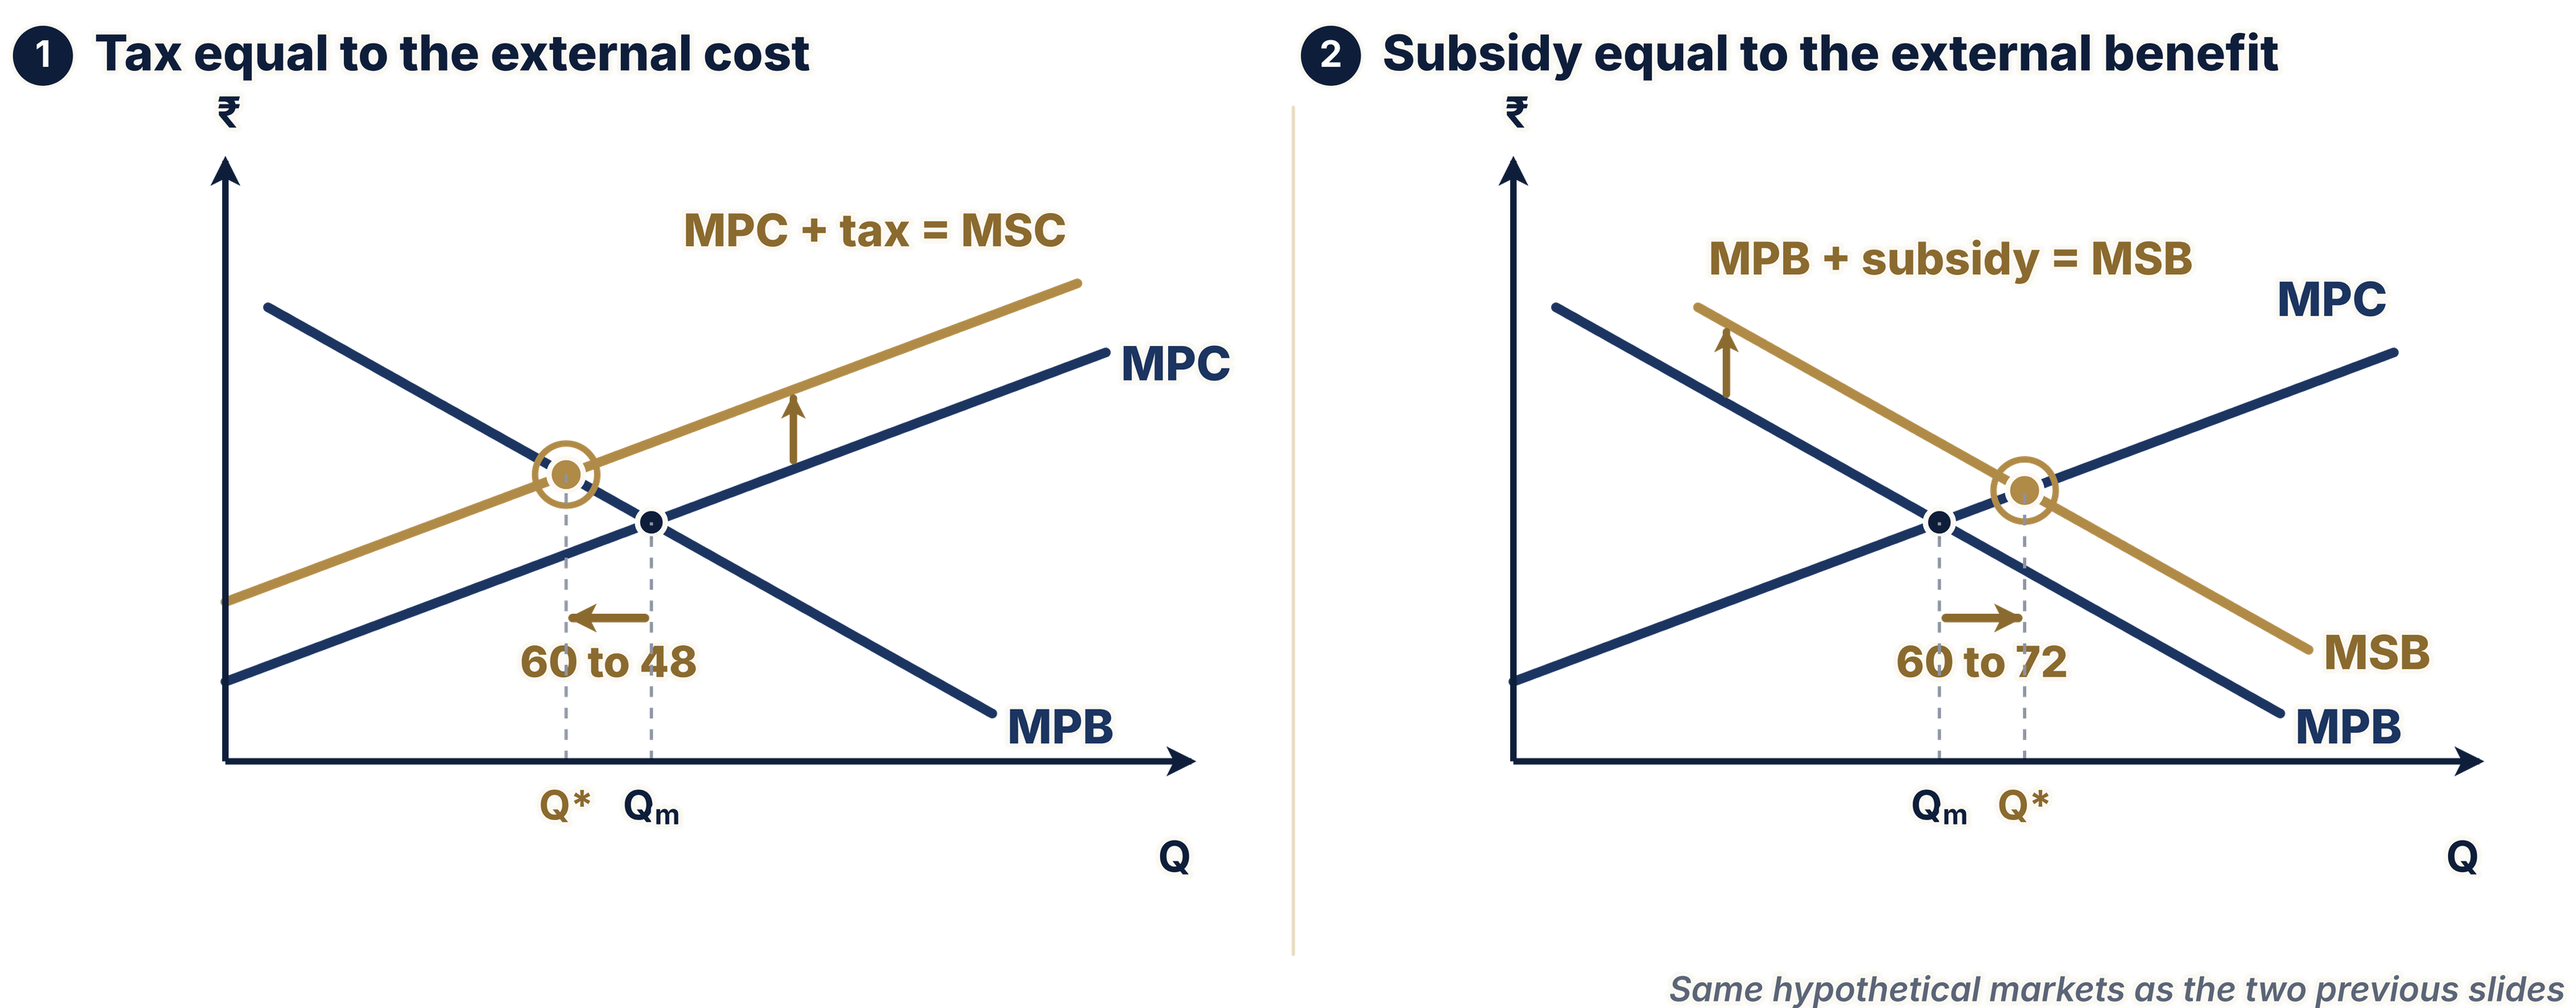
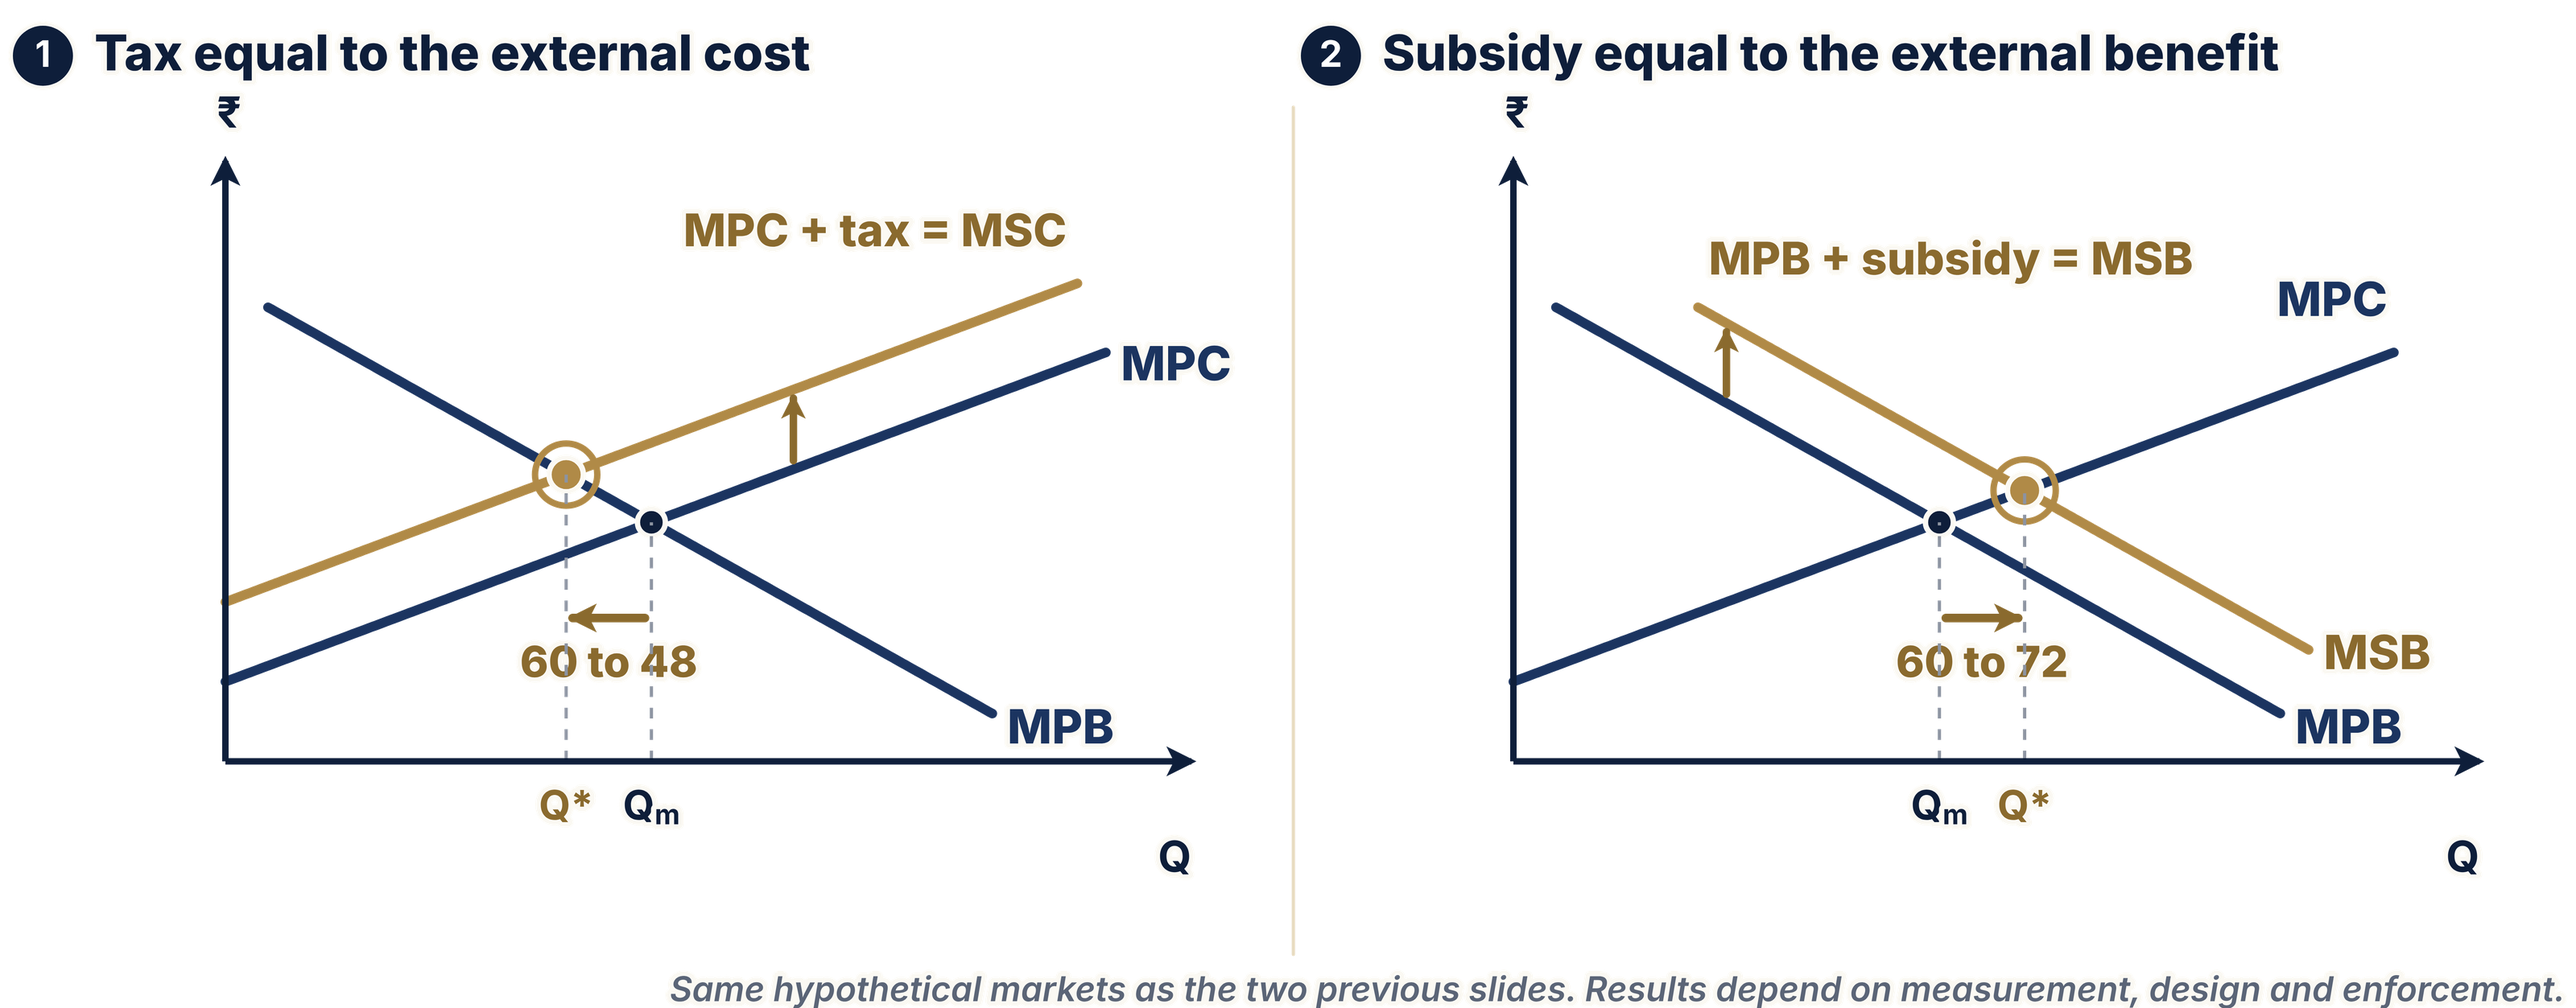
Section II: correction graph caveat
Claude-Session: https://claude.ai/code/session_01RLiD2gmov7MXXhnmF6Br24

Changed region(s): [[0.25, 0.9649, 1.0, 1.0]]

diff --git a/presentation-assets/upsc-economics-elasticity-intervention-market-failure/source/s2_slides.py b/presentation-assets/upsc-economics-elasticity-intervention-market-failure/source/s2_slides.py
@@ -92,7 +92,7 @@ S.append(card(head(E1, "How to Interpret PED: Five Standard Categories")
 S.append(card(head(E1, "Why Does PED Differ Across Goods?") + img("S07_PED_Determinants_v2", "Five determinants of PED", 372)))
 
 # 8 PED and spending
-S.append(card(head(E1, "PED and Total Expenditure") + img("G08_PED_Expenditure_v2", "Price cuts with elastic and inelastic demand", 330)
+S.append(card(head(E1, "PED and Total Expenditure") + img("G08_PED_Expenditure_v2", "Price cuts with elastic and inelastic demand", 314)
               + '<p><b>Unit elastic:</b> spending stays the same. Elastic: price and spending move in opposite directions; inelastic: in the same direction. Sellers and governments need to know which case they face.</p>'))
 
 # 9 YED calculation
@@ -228,7 +228,7 @@ S.append(card(head(E2, "When Government Intervention Can Fail") + img("S30_Gover
               + '<p>Government action can improve an outcome, but it can also create new costs or miss the underlying problem.</p>'))
 
 # 31 Mains framework
-S.append(card(head(E2, "A Framework for Evaluating Intervention in GS Mains") + img("S31_Mains_Framework_v2", "Six-step policy evaluation framework", 330)
+S.append(card(head(E2, "A Framework for Evaluating Intervention in GS Mains") + img("S31_Mains_Framework_v2", "Six-step policy evaluation framework", 316)
               + '<p>Use the six steps as the skeleton of an answer: each step is one short paragraph, ending with a qualified judgement.</p>'))
 
 # 32 Opener III
@@ -265,10 +265,10 @@ S.append(card(head(E3, "Positive Externalities: Benefits Beyond the Consumer")
                      (31, img("G35_Positive_Externality_v2", "Positive consumption externality", 372)))))
 
 # 36 Correcting externalities
-S.append(card(head(E3, "Correcting Externalities: Match the Tool to the Problem") + img("G36_Correction_v2", "Tax and subsidy corrections", 262)
-              + cols((20, '<p><b>Corrective tax:</b> raises private cost towards social cost</p><p><b>Subsidy:</b> raises private benefit towards social benefit</p>', 'cell-style="subtle" padding="8pt 12pt"'),
-                     (20, '<p><b>Regulation, standards:</b> limit the harmful activity directly</p><p><b>Tradable permits:</b> cap total emissions; firms trade allowances</p>', 'cell-style="subtle" padding="8pt 12pt"'),
-                     (20, '<p><b>Public provision:</b> where private supply falls short</p><p><b>Information:</b> where people misjudge costs or benefits. <i>Each depends on measurement, design and enforcement.</i></p>', 'cell-style="subtle" padding="8pt 12pt"'), spacing="small")))
+S.append(card(head(E3, "Correcting Externalities: Match the Tool to the Problem") + img("G36_Correction_v3", "Tax and subsidy corrections", 236)
+              + cols((20, '<p><b>Corrective tax:</b> raises private cost to social cost</p><p><b>Subsidy:</b> raises private benefit to social benefit</p>', 'cell-style="subtle" padding="8pt 12pt"'),
+                     (20, '<p><b>Regulation:</b> limits the harmful activity directly</p><p><b>Tradable permits:</b> cap emissions and allow trading</p>', 'cell-style="subtle" padding="8pt 12pt"'),
+                     (20, '<p><b>Public provision:</b> fills gaps in private supply</p><p><b>Information:</b> corrects misjudged costs or benefits</p>', 'cell-style="subtle" padding="8pt 12pt"'), spacing="small")))
 
 # 37 Public goods
 S.append(card(head(E3, "Public Goods: Two Defining Characteristics")

diff --git a/presentation-assets/upsc-economics-elasticity-intervention-market-failure/source/s2_graphs.py b/presentation-assets/upsc-economics-elasticity-intervention-market-failure/source/s2_graphs.py
@@ -519,7 +519,7 @@ for p in range(2):
         lab(ax, 124, S(124), "MPC", NAVY, dx=-6, dy=-46, size=44, anchor="end")
     axes(ax, origin=False)
 cv.line(1205, 100, 1205, 890, EDGE, 3)
-tag(cv, 2390, 925, "Same hypothetical markets as the two previous slides", size=32)
+tag(cv, 2390, 925, "Same hypothetical markets as the two previous slides. Results depend on measurement, design and enforcement.", size=32)
 cv.save("G36_Correction")
 
 
